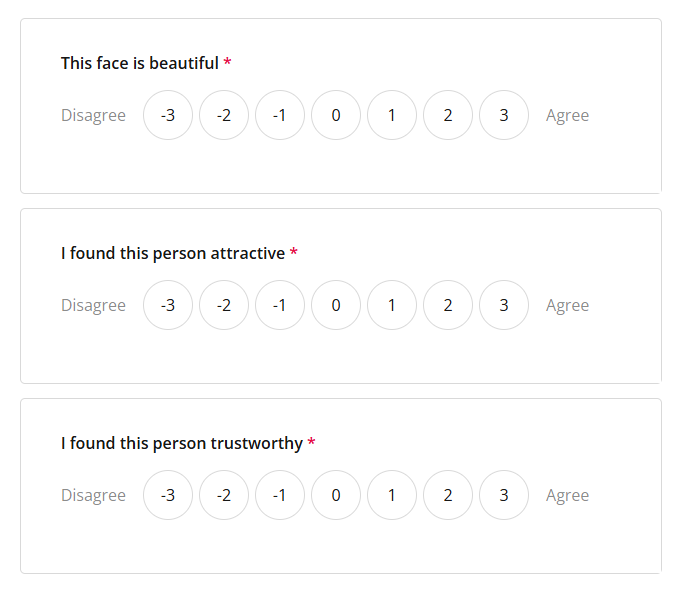
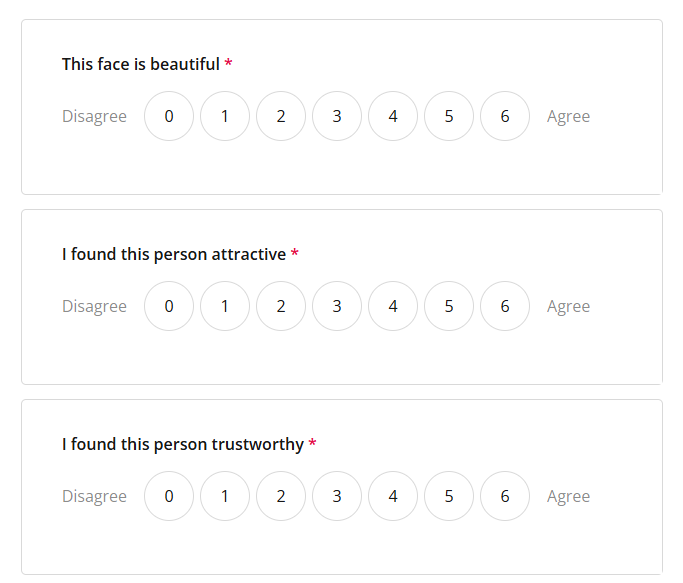
add break

diff --git a/experiment/fiction.js b/experiment/fiction.js
@@ -78,6 +78,9 @@ var fiction_instructions2 = {
         "<p style='text-align: center';>Press start once you are ready.</p>",
     choices: ["Start"],
     data: { screen: "fiction_instructions2" },
+    on_finish: function () {
+        fiction_trialnumber = 1 // Reset trial counter
+    },
 }
 
 var fiction_preloadstims = {
@@ -173,7 +176,11 @@ var fiction_ratings1 = {
         goNextPageAutomatic: true,
         showQuestionNumbers: false,
         showNavigationButtons: false,
-        title: "Rating",
+        title: function () {
+            return (
+                "Rating - " + Math.round(((fiction_trialnumber - 1) / stimuli.length) * 100) + "%"
+            )
+        },
         description: "Think of the person that you just saw.",
         pages: [
             {
@@ -183,8 +190,8 @@ var fiction_ratings1 = {
                         name: "Beauty",
                         title: "This face is beautiful",
                         isRequired: true,
-                        rateMin: -3,
-                        rateMax: 3,
+                        rateMin: 0,
+                        rateMax: 6,
                         minRateDescription: "Disagree",
                         maxRateDescription: "Agree",
                         displayMode: "buttons",
@@ -194,8 +201,8 @@ var fiction_ratings1 = {
                         name: "Attractiveness",
                         title: "I found this person attractive",
                         isRequired: true,
-                        rateMin: -3,
-                        rateMax: 3,
+                        rateMin: 0,
+                        rateMax: 6,
                         minRateDescription: "Disagree",
                         maxRateDescription: "Agree",
                         displayMode: "buttons",
@@ -205,8 +212,8 @@ var fiction_ratings1 = {
                         name: "Trustworthiness",
                         title: "I found this person trustworthy",
                         isRequired: true,
-                        rateMin: -3,
-                        rateMax: 3,
+                        rateMin: 0,
+                        rateMax: 6,
                         minRateDescription: "Disagree",
                         maxRateDescription: "Agree",
                         displayMode: "buttons",
@@ -234,8 +241,31 @@ var fiction_ratings1 = {
     },
 }
 
-var fiction_phase1 = {
-    timeline_variables: stimuli, //.slice(0, 3), // TODO: remove this
+var fiction_phase1a = {
+    timeline_variables: stimuli.slice(0, Math.ceil(stimuli.length / 2)), //.slice(0, 3), // TODO: remove this
+    timeline: [
+        fiction_fixation1,
+        fiction_cue,
+        fiction_fixation1,
+        fiction_showimage1,
+        fiction_ratings1,
+    ],
+}
+
+var fiction_phase1_break = {
+    type: jsPsychHtmlButtonResponse,
+    css_classes: ["narrow-text"],
+    stimulus:
+        "<h1>Break Time</h1>" +
+        "<div style='text-align: left'>" +
+        "<p>We know these types of experiment can feel a bit repetitive and tedious, " +
+        "but it is important for us that you stay focus until the end. Please take this opportunity to <b>take a break and relax your neck and eyes</b>.</p>",
+    choices: ["Ready to continue!"],
+    data: { screen: "fiction_phase1_break" },
+}
+
+var fiction_phase1b = {
+    timeline_variables: stimuli.slice(Math.ceil(stimuli.length / 2), stimuli.length), //.slice(0, 3), // TODO: remove this
     timeline: [
         fiction_fixation1,
         fiction_cue,
@@ -295,6 +325,11 @@ var fiction_ratings2 = {
         goNextPageAutomatic: true,
         showQuestionNumbers: false,
         showNavigationButtons: false,
+        title: function () {
+            return (
+                "Rating - " + Math.round(((fiction_trialnumber - 1) / stimuli.length) * 100) + "%"
+            )
+        },
         pages: [
             {
                 elements: [
@@ -358,7 +393,7 @@ var fiction_ratings2 = {
 }
 
 var fiction_phase2 = {
-    timeline_variables: shuffleArray(stimuli), // .slice(0, 3) TODO: remove this
+    timeline_variables: shuffleArray(stimuli).slice(0, 3), // .slice(0, 3) TODO: remove this
     timeline: [fiction_fixation2, fiction_showimage2, fiction_ratings2],
 }
 

diff --git a/experiment/eyetracking.js b/experiment/eyetracking.js
@@ -26,7 +26,7 @@ var eyetracking_webcam = {
 var eyetracking_calibration_instructions = {
     type: jsPsychHtmlButtonResponse,
     stimulus:
-        "<h2>Calibration</h2>" +
+        "<h2>Gaze Calibration (1/2)</h2>" +
         "<p>You will now see a series of <b>black dots</b> appear on the screen. Look at each dot and <b>click on it</b>.</p>",
     choices: ["Ready"],
     data: {
@@ -53,7 +53,7 @@ var eyetracking_calibration_run = {
 var eyetracking_validation_instructions = {
     type: jsPsychHtmlButtonResponse,
     stimulus:
-        "<h2>Calibration</h2>" +
+        "<h2>Gaze Calibration (2/2)</h2>" +
         "<p>Again, look at each dot as it appears on the screen, but <b>do not click on them this time.</b></p>",
     choices: ["Ready"],
     post_trial_gap: 1000,
@@ -101,6 +101,7 @@ var eyetracking_calibration_process = {
 var eyetracking_recalibrate_instructions = {
     type: jsPsychHtmlButtonResponse,
     stimulus:
+        "<h2>Gaze Calibration (1/2)</h2>" +
         "<p>The calibration accuracy is a little lower than we'd like.</p>" +
         "<p>Let's try calibrating one more time.</p>" +
         "<p>On the next screen, look at the dots and <b>click on them</b>.<p>",
@@ -134,6 +135,22 @@ var eyetracking_calibration = {
         eyetracking_calibration_instructions,
         eyetracking_calibration_process,
         eyetracking_recalibrate_process,
+        calibration_done,
+    ],
+    conditional_function: function () {
+        var consent = jsPsych.data.get().filter({ screen: "eyetracking_consent" })["trials"][0]
+        if (consent["response"] == 0) {
+            return true
+        } else {
+            return false
+        }
+    },
+}
+
+var eyetracking_recalibration = {
+    timeline: [
+        eyetracking_calibration_instructions,
+        eyetracking_calibration_process,
         calibration_done,
     ],
     conditional_function: function () {

diff --git a/experiment/demographics.js b/experiment/demographics.js
@@ -210,13 +210,33 @@ var demographics_questions = {
                         placeholder: "e.g., France",
                         isRequired: false,
                     },
+                ],
+            },
+            {
+                elements: [
                     {
                         title: "What sexual orientation do you identify with?",
                         description:
-                            "This information is important for the later part of the experiment.",
+                            "These questions are important to understand the results in the latter part of the experiment.",
                         name: "SexualOrientation",
                         type: "radiogroup",
                         choices: ["Heterosexual", "Homosexual", "Bisexual"],
+                        showOtherItem: true,
+                        otherText: "Other",
+                        otherPlaceholder: "Please specify",
+                        isRequired: true,
+                        colCount: 1,
+                    },
+                    {
+                        title: "I am currently...",
+                        name: "SexualStatus",
+                        type: "radiogroup",
+                        choices: [
+                            "Single and not open to dating",
+                            "Single and open to dating",
+                            "In a relationship and not open to dating",
+                            "In a relationship and open to dating",
+                        ],
                         showOtherItem: true,
                         otherText: "Other",
                         otherPlaceholder: "Please specify",

diff --git a/experiment/index.html b/experiment/index.html
@@ -87,15 +87,19 @@
         timeline.push(questionnaire_bait)
         timeline.push(feedback_bait) // Attitudes towards AI
 
-        // Fiction stage 1 ===========================================================
+        // Eye-tracking ==============================================================
         timeline.push(eyetracking_consent)
         timeline.push(eyetracking_calibration)
 
+        // // Fiction stage 1 ===========================================================
         timeline.push(fiction_instructions1)
-        timeline.push(fiction_phase1)
+        timeline.push(fiction_phase1a)
+        timeline.push(fiction_phase1_break)
+        timeline.push(eyetracking_recalibration)
+        timeline.push(fiction_phase1b)
         timeline.push(fiction_feedback1)
 
-        // Fiction stage 2 ===========================================================
+        // // Fiction stage 2 ===========================================================
         timeline.push(fiction_instructions2)
         timeline.push(fiction_phase2)
         timeline.push(experiment_feedback)
